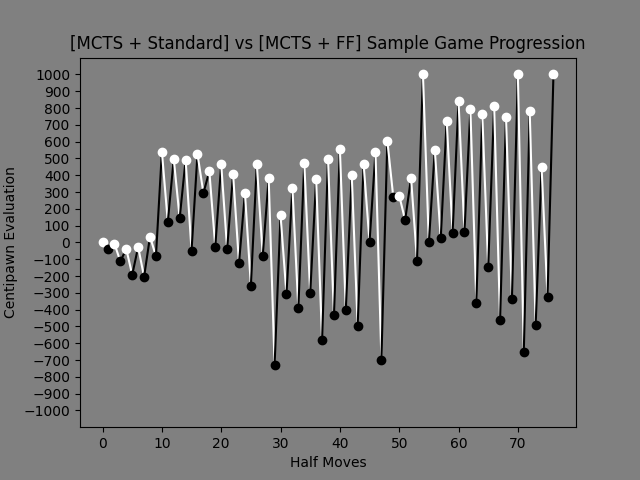
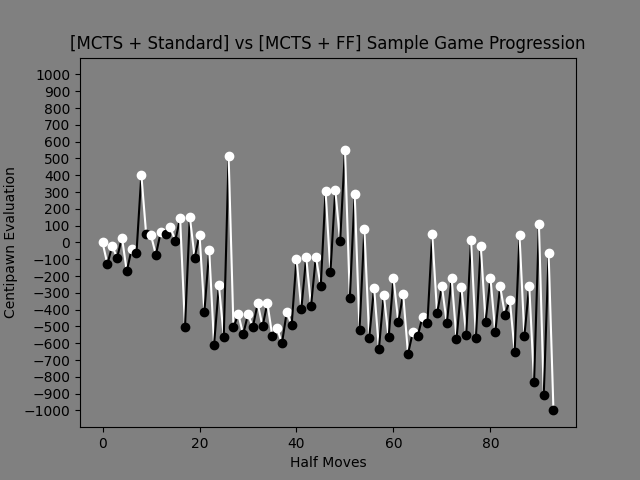
Fix Adam Matchup Images

diff --git a/app/app.py b/app/app.py
@@ -271,7 +271,7 @@ matchup_16 = ChessAgentEvaluator(
 matchup_17 = ChessAgentEvaluator(
     agent=ab_ff,
     agent_name="AB + FF",
-    benchmark=stockfish,
+    benchmark=random,
     benchmark_name="Random",
     benchmark_elo=500,
     view=None,
@@ -282,7 +282,7 @@ matchup_17 = ChessAgentEvaluator(
 matchup_18 = ChessAgentEvaluator(
     agent=ab_cnn,
     agent_name="AB + CNN",
-    benchmark=stockfish,
+    benchmark=random,
     benchmark_name="Random",
     benchmark_elo=500,
     view=None,
@@ -293,7 +293,7 @@ matchup_18 = ChessAgentEvaluator(
 matchup_19 = ChessAgentEvaluator(
     agent=mcts_standard,
     agent_name="MCTS + Standard",
-    benchmark=stockfish,
+    benchmark=random,
     benchmark_name="Random",
     benchmark_elo=500,
     view=None,
@@ -304,7 +304,7 @@ matchup_19 = ChessAgentEvaluator(
 matchup_20 = ChessAgentEvaluator(
     agent=mcts_ff,
     agent_name="MCTS + FF",
-    benchmark=stockfish,
+    benchmark=random,
     benchmark_name="Random",
     benchmark_elo=500,
     view=None,
@@ -315,7 +315,7 @@ matchup_20 = ChessAgentEvaluator(
 matchup_21 = ChessAgentEvaluator(
     agent=mcts_cnn,
     agent_name="MCTS + CNN",
-    benchmark=stockfish,
+    benchmark=random,
     benchmark_name="Random",
     benchmark_elo=500,
     view=None,
